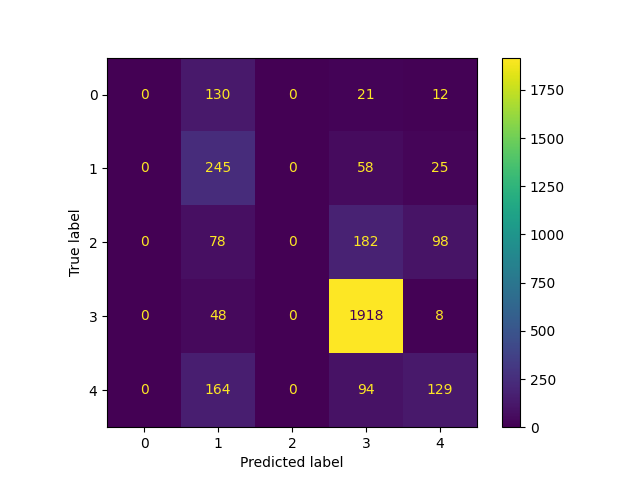
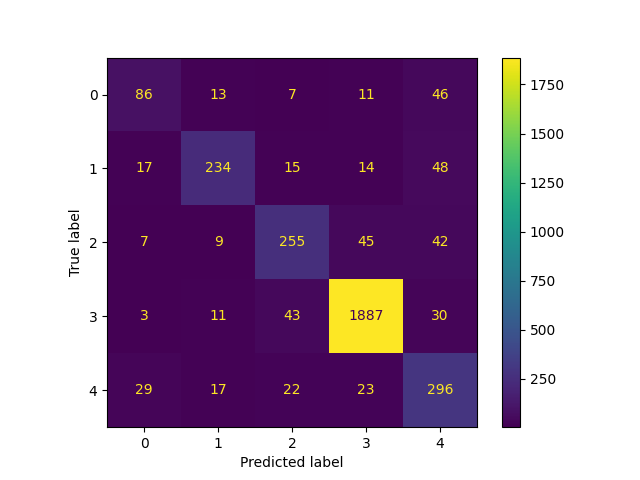
augmention&cache

diff --git a/dataloader.py b/dataloader.py
@@ -1,86 +1,141 @@
-# dataloader.py
 import pandas as pd
-import torch
-from torch.utils.data import Dataset, DataLoader
-from torchvision import transforms, io
 from sklearn.model_selection import train_test_split
-from config import config
-import numpy as np
+import matplotlib.pyplot as plt
+import os
+from PIL import Image
+from torch.utils.data import Dataset
+from torchvision import transforms
+from torch.utils.data import DataLoader
+from config import Config
+import torch
+import json
+import pickle
 
-# Define the dataset class
-class CustomDataset(Dataset):
-    def __init__(self, dataframe, transform=None):
+image_paths ='data/augmented_images'
+output_images_folder = 'images'
+cache_path = 'data/cache.pkl'  # 定义缓存文件路径
+
+
+# 定义支持缓存的自定义数据集类
+class CachedDataset(Dataset):
+    def __init__(self, dataframe, label_map, transform=None, cache_file=None):
         self.dataframe = dataframe
         self.transform = transform
+        self.label_map = label_map
+        self.cache = {}
+        self.cache_file = cache_file
+
+        if cache_file and os.path.exists(cache_file):
+            self.load_cache()
 
     def __len__(self):
         return len(self.dataframe)
 
     def __getitem__(self, idx):
-        img_path = self.dataframe.iloc[idx]['img_path']
-        image = io.read_image(img_path)
-        image = transforms.ConvertImageDtype(torch.float32)(image)
-        
-        if self.transform:
-            image = self.transform(image)
-        
-        label = self.dataframe.iloc[idx]['label']
-        label = torch.tensor(label, dtype=torch.long)  # 确保标签是 long 类型的 1D 张量
+        if idx in self.cache:  # 检查缓存中是否已有该图像
+            image, label = self.cache[idx]
+        else:
+            img_path = self.dataframe.iloc[idx]['image_path']
+            image = Image.open(img_path).convert('RGB')
+            
+            if self.transform:
+                image = self.transform(image)
+            
+            label = self.dataframe.iloc[idx]['label']
+            # 将疾病对应到数字
+            label = self.label_map[label]
+            self.cache[idx] = (image, label)  # 将图像和标签存储到缓存中
+
         return image, label
 
-# Define the transforms
-train_transforms = transforms.Compose([
-    transforms.Resize((224, 224)),
-    transforms.RandomHorizontalFlip(0.5),
-    transforms.ColorJitter(brightness=0.3, contrast=0.3),
-    transforms.RandomRotation(0.2 * 2 * np.pi),
-    transforms.Normalize(
-        mean=[0.485, 0.456, 0.406],
-        std=[0.229, 0.224, 0.225]
-    )
-])
+    def save_cache(self):
+        with open(self.cache_file, 'wb') as f:
+            pickle.dump(self.cache, f)
+        print(f'Cache saved to {self.cache_file}')
 
-valid_transforms = transforms.Compose([
-    transforms.Resize((224, 224)),
-    transforms.Normalize(
-        mean=[0.485, 0.456, 0.406],
-        std=[0.229, 0.224, 0.225]
-    )
-])
+    def load_cache(self):
+        with open(self.cache_file, 'rb') as f:
+            self.cache = pickle.load(f)
+        print(f'Cache loaded from {self.cache_file}')
 
-# Load the dataset
-input_path = 'data'
-image_folder = 'train_images'
-train_df = pd.read_csv(f'{input_path}/train.csv')
-standard = pd.read_json(f'{input_path}/label_num_to_disease_map.json', typ='series')
+
+# 定义函数绘制并保存饼图
+def plot_pie_chart(data, title, filename):
+    label_counts = data['label'].value_counts()
+    fig, ax = plt.subplots()
+    ax.pie(label_counts, labels=label_counts.index, autopct='%1.1f%%', startangle=90)
+    ax.axis('equal')
+    ax.set_title(title)
+    
+    # 保存图像
+    save_path = os.path.join(output_images_folder, filename)
+    plt.savefig(save_path)
+    plt.close(fig)
+    
+    # print(f'{title} detailed counts:\n{label_counts}\n')
+
+train_df = pd.read_csv('data/augmented_labels.csv')
+# print(f'total number of images: {len(train_df)}')
+
+standard = pd.read_json('data/label_num_to_disease_map.json', typ='series')
 standard_map = dict(standard)
-train_df['disease'] = train_df['label'].map(standard_map)
-train_df['img_path'] = (f'{input_path}/{image_folder}/' + train_df['image_id']).apply(lambda x: x if x.endswith('.jpg') else x + '.jpg')
+# print(f'Number of classes: {len(standard)}')
 
-train_data, valid_data = train_test_split(
-    train_df, 
-    test_size=config.VAL_SPLIT, 
-    random_state=config.SEED,
-    stratify=train_df['label']
-)
+# 将疾病名称映射到数值标签
+reversed_standard_map = {v: int(k) for k, v in standard_map.items()}
+train_df['label'] = train_df['label'].map(standard_map)
+train_df['image'] = train_df['image_path'].apply(lambda x: x.split('/')[-1]) # Extract the image name from the path
+# print(f'total number of images: {len(train_df["image"])}')
 
-valid_data, test_data = train_test_split(
-    valid_data, 
-    test_size=config.TEST_SPLIT, 
-    random_state=config.SEED,
-    stratify=valid_data['label']
-)
+train_data, valid_data = train_test_split(train_df, test_size=0.2, stratify=train_df['label'], random_state=42, shuffle=True)
+
+valid_data, test_data = train_test_split(valid_data, test_size=0.5, stratify=valid_data['label'], random_state=42, shuffle=True)
 
 
+# # 绘制并保存饼图
+# plot_pie_chart(train_data, 'Training Data Distribution', 'train_data_distribution.png')
+# plot_pie_chart(valid_data, 'Validation Data Distribution', 'valid_data_distribution.png')
+# plot_pie_chart(test_data, 'Test Data Distribution', 'test_data_distribution.png')
 
-train_dataset = CustomDataset(train_data, transform=train_transforms)
-valid_dataset = CustomDataset(valid_data, transform=valid_transforms)
-test_dataset = CustomDataset(test_data, transform=valid_transforms)
+# 計算權重
+class_counts = train_data['label'].value_counts()
+total_samples = len(train_data)
+class_weights = {label: total_samples / count for label, count in class_counts.items()}
 
-train_loader = DataLoader(train_dataset, batch_size=config.BATCH_SIZE, shuffle=True)
-valid_loader = DataLoader(valid_dataset, batch_size=config.BATCH_SIZE, shuffle=False)
-test_loader = DataLoader(test_dataset, batch_size=config.BATCH_SIZE, shuffle=False)
+# # 逐行打印类别权重
+# print("Class Weights:")
+# for label, weight in class_weights.items():
+#     print(f'Class {label}: {weight}')
 
-# print(f"Train dataset: {len(train_dataset)}")
-# print(f"Valid dataset: {len(valid_dataset)}")
-# print(f"Test dataset: {len(test_dataset)}")
+# 定义图像变换
+transform = transforms.Compose([
+    transforms.Resize((224, 224)),  # 根据需要调整尺寸
+    transforms.ToTensor(),
+    transforms.Normalize(mean=[0.485, 0.456, 0.406], std=[0.229, 0.224, 0.225])
+])
+
+
+# 创建数据集实例
+train_dataset = CachedDataset(train_data, reversed_standard_map, transform=transform, cache_file=cache_path)
+valid_dataset = CachedDataset(valid_data, reversed_standard_map, transform=transform, cache_file=cache_path)
+test_dataset = CachedDataset(test_data, reversed_standard_map, transform=transform, cache_file=cache_path)
+
+# 保存缓存
+train_dataset.save_cache()
+valid_dataset.save_cache()
+test_dataset.save_cache()
+
+# print(f'Training dataset size: {len(train_dataset)}')
+# print(f'Validation dataset size: {len(valid_dataset)}')
+# print(f'Test dataset size: {len(test_dataset)}')
+
+# DataLoader
+train_loader = DataLoader(train_dataset, batch_size=Config.BATCH_SIZE, shuffle=True)
+valid_loader = DataLoader(valid_dataset, batch_size=Config.BATCH_SIZE, shuffle=False)
+test_loader = DataLoader(test_dataset, batch_size=Config.BATCH_SIZE, shuffle=False)
+
+# print(f'Training dataset size: {len(train_loader)}')
+# print(f'Train dataset shape: {train_loader.dataset[0][0].shape}') # C, H, W
+# print(f'Train dataset label: {train_loader.dataset[0][1]}')
+# print(f'Validation dataset size: {len(valid_loader)}')
+# print(f'Test dataset size: {len(test_loader)}')

diff --git a/augmention.py b/augmention.py
@@ -1,0 +1,87 @@
+import os
+import pandas as pd
+import torch
+from torch.utils.data import Dataset, DataLoader
+from torchvision import transforms, io
+from PIL import Image
+from config import config
+import numpy as np
+from sklearn.model_selection import train_test_split
+from tqdm import tqdm  # 导入 tqdm
+from concurrent.futures import ThreadPoolExecutor  # 导入多线程模块
+
+# Define the dataset class
+class CustomDataset(Dataset):
+    def __init__(self, dataframe, transform=None):
+        self.dataframe = dataframe
+        self.transform = transform
+
+    def __len__(self):
+        return len(self.dataframe)
+
+    def __getitem__(self, idx):
+        img_path = self.dataframe.iloc[idx]['img_path']
+        image = io.read_image(img_path)
+        image = transforms.ConvertImageDtype(torch.float32)(image)
+        
+        if self.transform:
+            image = self.transform(image)
+        
+        label = self.dataframe.iloc[idx]['label']
+        label = torch.tensor(label, dtype=torch.long)  # 确保标签是 long 类型的 1D 张量
+        return image, label
+
+# Define a function to process a single image
+def process_image(dataset, idx, output_folder, angle_step, brightness_levels):
+    image, label = dataset[idx]
+    image = transforms.ToPILImage()(image)
+    records = []
+    
+    for angle in range(0, 360, angle_step):
+        for brightness in brightness_levels:
+            augmented_image = transforms.functional.adjust_brightness(image, brightness)
+            augmented_image = transforms.functional.rotate(augmented_image, angle)
+            file_name = f'image_{idx}_angle_{angle}_brightness_{brightness}.jpg'
+            save_path = os.path.join(output_folder, file_name)
+            augmented_image.save(save_path)
+            
+            records.append({
+                'image_path': save_path,
+                'label': label.item()
+            })
+    
+    return records
+
+# Define a function to augment and save images along with labels
+def augment_and_save_images(dataset, output_folder, csv_path, angle_step=90, brightness_levels=[0.5, 1.0, 1.2], num_workers=10):
+    if not os.path.exists(output_folder):
+        os.makedirs(output_folder)
+    
+    records = []
+    
+    # 使用 ThreadPoolExecutor 进行并行处理
+    with ThreadPoolExecutor(max_workers=num_workers) as executor:
+        futures = [executor.submit(process_image, dataset, idx, output_folder, angle_step, brightness_levels) for idx in range(len(dataset))]
+        for future in tqdm(futures, desc="Augmenting Images"):
+            records.extend(future.result())
+    
+    df = pd.DataFrame(records)
+    df.to_csv(csv_path, index=False)
+
+# Load the dataset
+input_path = 'data'
+image_folder = 'train_images'
+output_folder = 'data/augmented_images'
+csv_path = 'data/augmented_labels.csv'
+
+train_df = pd.read_csv(f'{input_path}/train.csv')
+standard = pd.read_json(f'{input_path}/label_num_to_disease_map.json', typ='series')
+standard_map = dict(standard)
+train_df['disease'] = train_df['label'].map(standard_map)
+train_df['img_path'] = (f'{input_path}/{image_folder}/' + train_df['image_id']).apply(lambda x: x if x.endswith('.jpg') else x + '.jpg')
+
+# Convert DataFrame to CustomDataset
+train_dataset = CustomDataset(train_df)
+
+# Augment and save images along with labels
+augment_and_save_images(train_dataset, output_folder, csv_path, num_workers=10)  

diff --git a/train.py b/train.py
@@ -1,3 +1,4 @@
+# train.py
 import torch
 from torch import nn
 from dataloader import train_loader, valid_loader
@@ -19,8 +20,8 @@ import time
 # 启动 TensorBoard
 def start_tensorboard(log_dir):
     subprocess.Popen(['tensorboard', '--logdir', log_dir, '--port', '3000'])
-    time.sleep(5)  # 等待 TensorBoard 启动
-    webbrowser.open('http://localhost:3000')
+    # time.sleep(5)  # 等待 TensorBoard 启动
+    # webbrowser.open('http://localhost:3000')
 
 device = torch.device('cuda' if torch.cuda.is_available() else 'cpu')
 model = CassavaResNet50().to(device)
@@ -29,11 +30,11 @@ criterion = CrossEntropyLoss()
 scheduler = ReduceLROnPlateau(optimizer, 'min', patience=config.PATIENCE, factor=config.DECAY_FACTOR, verbose=True)
 
 # 打印模型摘要
-summary(model, (3, 512, 512))
+summary(model, (3, 224, 224))
 
 # 定義訓練函數
 def train_model():
-    log_dir = 'runs'
+    log_dir = 'runs/second'
     writer = SummaryWriter(log_dir)
     start_tensorboard(log_dir)  # 启动 TensorBoard
     best_valid_loss = float('inf')
@@ -50,8 +51,10 @@ def train_model():
         model.train()
         train_loss = 0.0
         train_acc = 0.0
+        
         for images, labels in tqdm.tqdm(train_loader):
-            images, labels = images.to(device), labels.to(device)
+            # print(f'images shape: {images.shape}, labels shape: {labels.shape}')
+            images, labels = images.to(device), labels.to(device) 
             optimizer.zero_grad()
             outputs = model(images)
             loss = criterion(outputs, labels)
@@ -75,7 +78,7 @@ def train_model():
         all_preds = []
         with torch.no_grad():
             for images, labels in tqdm.tqdm(valid_loader):
-                images, labels = images.to(device), labels.to(device)
+                images, labels = images.to(device), labels.to(device)  
                 outputs = model(images)
                 loss = criterion(outputs, labels)
                 valid_loss += loss.item()

diff --git a/model.py b/model.py
@@ -2,6 +2,7 @@
 import torch
 from torch import nn
 import torchvision.models as models
+from torchsummary import summary
 
 class CassavaResNet50(nn.Module):
     def __init__(self):
@@ -34,3 +35,4 @@ class CassavaResNet50(nn.Module):
         x = self.fc2(x)
         x = self.softmax(x)
         return x
+    

diff --git a/config.py b/config.py
@@ -4,7 +4,7 @@ class Config:
     VAL_SPLIT = 0.3
     TEST_SPLIT = 0.5
     IMAGE_SIZE = [512, 512]
-    BATCH_SIZE = 32
+    BATCH_SIZE = 128
     EPOCHS = 50
     VERBOSE = 1
     CLASSES = ['0', '1', '2', '3', '4']
